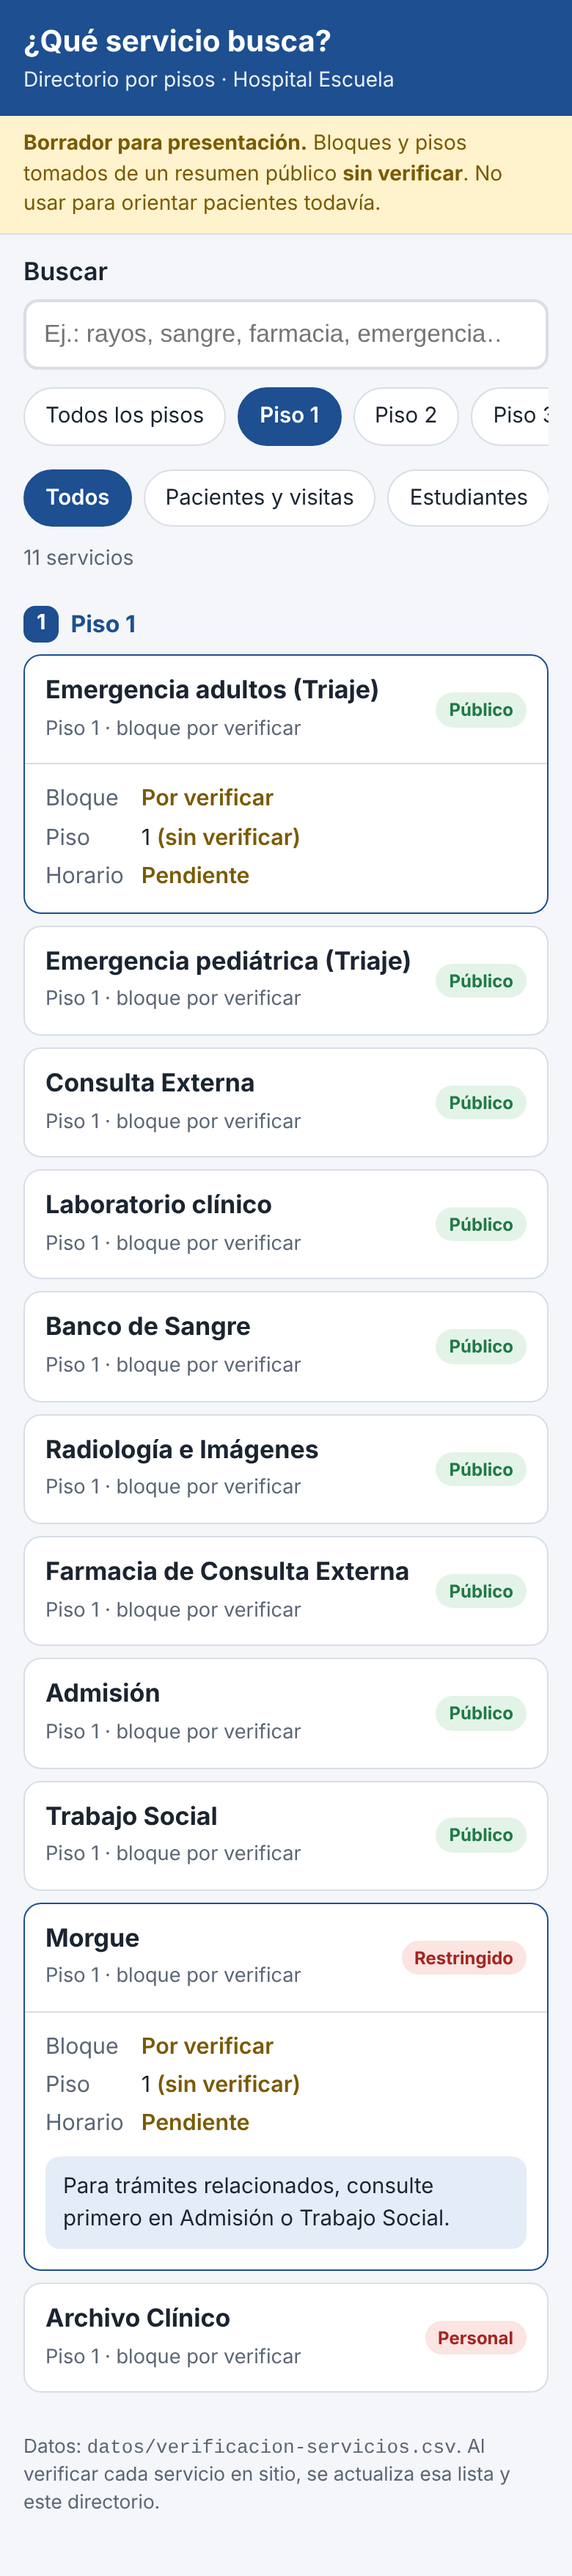
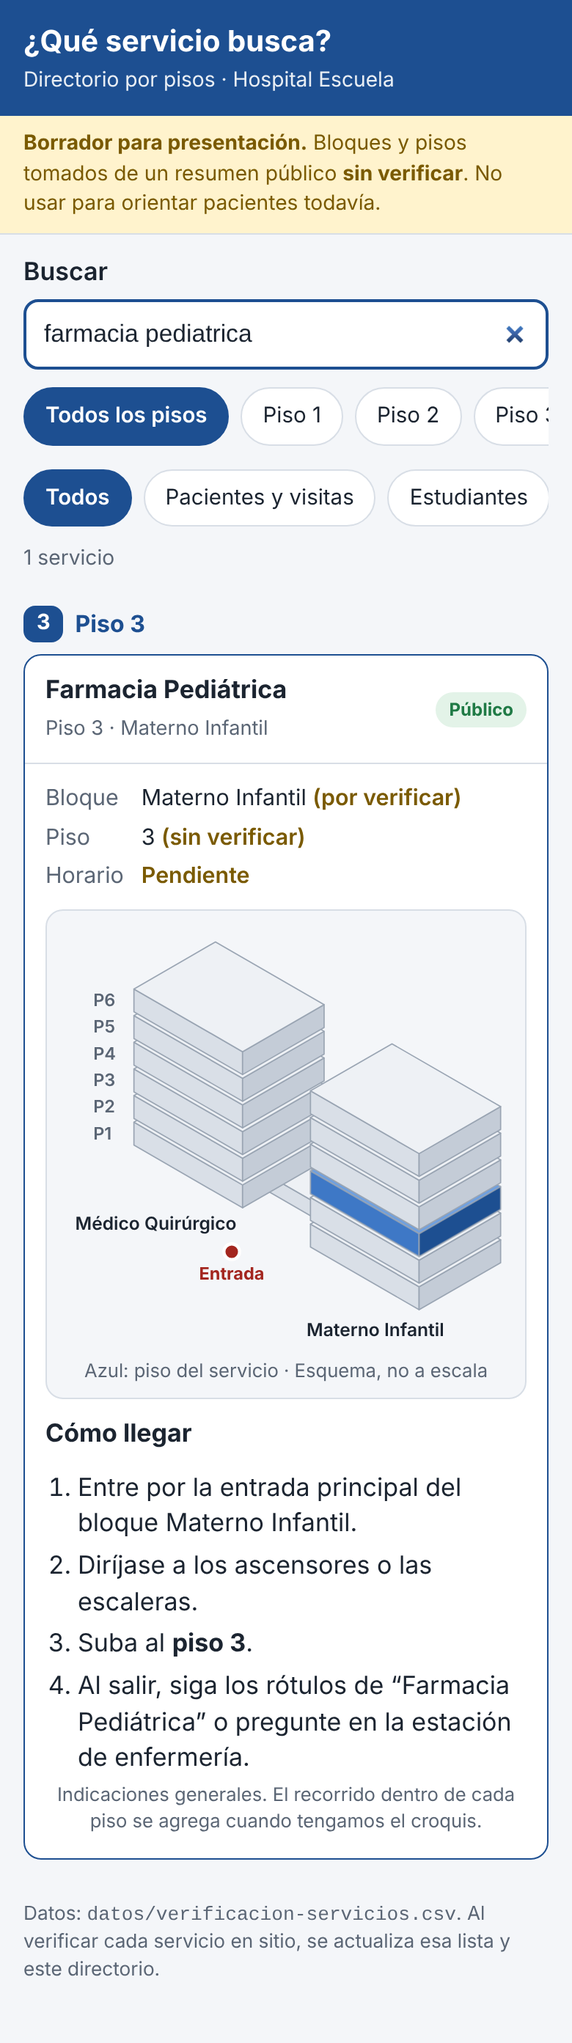
Directorio: vista 3D esquemática del edificio e indicaciones por piso
Claude-Session: https://claude.ai/code/session_015W3oK1W9ATUMM3YDaiew4J

Changed region(s): [[0.0, 0.0, 1.0, 0.9681], [0.0308, 0.7182, 0.0615, 0.7495]]

diff --git a/modelo 3d hospital escuela/directorio/index.html b/modelo 3d hospital escuela/directorio/index.html
@@ -10,6 +10,7 @@
     --accent: #1d4f91; --accent-soft: #e4ecf8; --ok: #1f7a45; --ok-soft: #e3f3e8;
     --warn: #7a5a00; --warn-soft: #fff3cd; --stop: #a3261f; --stop-soft: #fbe4e2;
     --info: #4b3a8f; --info-soft: #ece8fa;
+    --b-top: #eef1f5; --b-l: #d9dfe7; --b-r: #c4ccd7; --b-edge: #9aa5b3; --h-top: #6fa0e0; --h-l: #3e78c6; --h-r: #1d4f91; --d-top: #ffe9a8; --d-l: #f3d371; --d-r: #ddb948;
   }
   @media (prefers-color-scheme: dark) {
     :root:not([data-theme="light"]) {
@@ -17,6 +18,7 @@
       --accent: #86b4f0; --accent-soft: #1f2c3e; --ok: #6fcf97; --ok-soft: #173326;
       --warn: #f0cf6e; --warn-soft: #3a3115; --stop: #ff8a80; --stop-soft: #3d1c1a;
       --info: #b9a8ff; --info-soft: #2a2442;
+      --b-top: #2c3542; --b-l: #232b36; --b-r: #1c232c; --b-edge: #46505e; --h-top: #86b4f0; --h-l: #4f84cc; --h-r: #2f5f9f; --d-top: #6b5a24; --d-l: #574a1d; --d-r: #433915;
     }
   }
   :root[data-theme="dark"] {
@@ -24,6 +26,7 @@
     --accent: #86b4f0; --accent-soft: #1f2c3e; --ok: #6fcf97; --ok-soft: #173326;
     --warn: #f0cf6e; --warn-soft: #3a3115; --stop: #ff8a80; --stop-soft: #3d1c1a;
     --info: #b9a8ff; --info-soft: #2a2442;
+    --b-top: #2c3542; --b-l: #232b36; --b-r: #1c232c; --b-edge: #46505e; --h-top: #86b4f0; --h-l: #4f84cc; --h-r: #2f5f9f; --d-top: #6b5a24; --d-l: #574a1d; --d-r: #433915;
   }
   * { box-sizing: border-box; }
   body { margin: 0; background: var(--bg); color: var(--text); font: 17px/1.45 system-ui, -apple-system, "Segoe UI", Roboto, sans-serif; }
@@ -62,6 +65,23 @@
   .msg.info { background: var(--accent-soft); }
   .msg.warn { background: var(--warn-soft); color: var(--warn); }
   .vacio { color: var(--muted); padding: 20px 0; text-align: center; }
+  .vista3d { margin: 12px 0 4px; background: var(--bg); border: 1px solid var(--line); border-radius: 12px; padding: 8px; }
+  .vista3d svg { width: 100%; height: auto; display: block; max-width: 420px; margin: 0 auto; }
+  .f-top { fill: var(--b-top); } .f-l { fill: var(--b-l); } .f-r { fill: var(--b-r); }
+  .vista3d polygon { stroke: var(--b-edge); stroke-width: .8; stroke-linejoin: round; }
+  .hl .f-top { fill: var(--h-top); } .hl .f-l { fill: var(--h-l); } .hl .f-r { fill: var(--h-r); }
+  .dudoso .f-top { fill: var(--d-top); } .dudoso .f-l { fill: var(--d-l); } .dudoso .f-r { fill: var(--d-r); }
+  .dudoso polygon { stroke: var(--warn); stroke-dasharray: 3 2; stroke-width: 1.2; }
+  .hl { animation: sube .9s ease-out both; }
+  @keyframes sube { from { transform: translateY(-14px); opacity: .3; } }
+  @media (prefers-reduced-motion: reduce) { .hl { animation: none; } }
+  .vista3d text { font-size: 11px; fill: var(--muted); font-weight: 600; }
+  .vista3d text.tor { fill: var(--text); font-size: 11.5px; text-anchor: middle; }
+  .vista3d text.pin { fill: var(--stop); font-weight: 700; text-anchor: middle; }
+  .vista3d circle { fill: var(--stop); stroke: var(--surface); stroke-width: 2; }
+  .leyenda3d { font-size: .8rem; color: var(--muted); text-align: center; margin: 4px 0 0; }
+  ol.pasos { margin: 12px 0 0; padding-left: 22px; } ol.pasos li { margin: 4px 0; }
+  .pasos-tit { font-weight: 700; margin-top: 12px; display: block; }
   footer { color: var(--muted); font-size: .82rem; margin-top: 28px; }
 </style>
 </head>
@@ -143,6 +163,56 @@ function mensaje(s) {
 }
 const esc = (t) => t.replace(/[&<>"]/g, (c) => ({ '&':'&amp;','<':'&lt;','>':'&gt;','"':'&quot;' }[c]));
 
+
+/* ---------- Vista 3D esquemática (isométrica) ----------
+   Dos bloques de 6 pisos. NO es el edificio real a escala: solo muestra en qué bloque y piso está el servicio. */
+const PISOS = 6, ESC = 20, C30 = 0.866;
+const TORRES = [
+  { clave: 'Médico Quirúrgico', x: 0 },
+  { clave: 'Materno Infantil', x: 6.5 },
+];
+const iso = (x, y, z) => [(x - y) * C30 * ESC, (x + y) * 0.5 * ESC - z * ESC * 0.85];
+const pts = (arr) => arr.map((p) => iso(...p).map((v) => v.toFixed(1)).join(',')).join(' ');
+function caja(x0, y0, z0, w, d, h, clase) {
+  const x1 = x0 + w, y1 = y0 + d, z1 = z0 + h;
+  return `<g class="${clase || ''}">
+    <polygon class="f-l" points="${pts([[x0,y1,z0],[x1,y1,z0],[x1,y1,z1],[x0,y1,z1]])}"/>
+    <polygon class="f-r" points="${pts([[x1,y0,z0],[x1,y1,z0],[x1,y1,z1],[x1,y0,z1]])}"/>
+    <polygon class="f-top" points="${pts([[x0,y0,z1],[x1,y0,z1],[x1,y1,z1],[x0,y1,z1]])}"/></g>`;
+}
+function edificio(s) {
+  let svg = '';
+  for (const t of TORRES) {
+    for (let p = 1; p <= PISOS; p++) {
+      let clase = '';
+      if (s.piso === p) clase = s.bloque ? (s.bloque === t.clave ? 'hl' : '') : 'dudoso';
+      svg += caja(t.x, 0, p - 1, 4, 3, 0.86, clase);
+    }
+    const [lx, ly] = t.x === 0 ? [-38, 84] : [102, 152];
+    svg += `<text class="tor" x="${lx}" y="${ly}">${t.clave}</text>`;
+    if (t.x === 0) for (let p = 1; p <= PISOS; p++) {
+      const [px, py] = iso(0, 3, p - 0.55);
+      svg += `<text x="${px - 26}" y="${py + 4}">P${p}</text>`;
+    }
+  }
+  svg = caja(4, 1, 0, 2.5, 1, 0.6, '') + svg; // pasillo de conexión (detrás)
+  const [ex, ey] = iso(5.2, 4.6, 0);
+  svg += `<circle cx="${ex}" cy="${ey}" r="5"/><text class="pin" x="${ex}" y="${ey + 18}">Entrada</text>`;
+  return `<svg viewBox="-100 -112 290 275" role="img" aria-label="Esquema del edificio: ${s.piso ? 'piso ' + s.piso : 'piso por confirmar'}">${svg}</svg>`;
+}
+function pasos(s) {
+  if (s.acc === 'Restringido' || s.acc === 'Personal' || s.discreto) return '';
+  const destino = esc(s.n);
+  const bloque = s.bloque ? `del bloque ${esc(s.bloque)}` : 'del bloque que le indiquen en Información';
+  const lista = s.piso === 1
+    ? [`Entre por la entrada principal ${bloque}.`, `${destino} está en la planta baja (piso 1).`, `Siga los rótulos de “${destino}” o pregunte en Información.`]
+    : s.piso
+    ? [`Entre por la entrada principal ${bloque}.`, 'Diríjase a los ascensores o las escaleras.', `Suba al <strong>piso ${s.piso}</strong>.`, `Al salir, siga los rótulos de “${destino}” o pregunte en la estación de enfermería.`]
+    : ['Pregunte en Información: la ubicación de este servicio aún no está confirmada.'];
+  return `<span class="pasos-tit">Cómo llegar</span><ol class="pasos">${lista.map((l) => `<li>${l}</li>`).join('')}</ol>
+    <p class="leyenda3d">Indicaciones generales. El recorrido dentro de cada piso se agrega cuando tengamos el croquis.</p>`;
+}
+
 function pintar() {
   pintarFiltros();
   const q = norm($('#q').value.trim());
@@ -168,7 +238,9 @@ function pintar() {
       const bloque = s.bloque ? `${esc(s.bloque)} <span class="pv">(por verificar)</span>` : '<span class="pv">Por verificar</span>';
       d.innerHTML = `<summary><div><strong>${esc(s.n)}</strong><small>${s.piso ? 'Piso ' + s.piso : 'Piso por confirmar'} · ${s.bloque ? esc(s.bloque) : 'bloque por verificar'}</small></div><span class="chip ${s.acc}">${s.acc}</span></summary>
         <div class="cuerpo"><dl><dt>Bloque</dt><dd>${bloque}</dd><dt>Piso</dt><dd>${s.piso ?? '<span class="pv">Por confirmar</span>'} <span class="pv">(sin verificar)</span></dd><dt>Horario</dt><dd><span class="pv">Pendiente</span></dd></dl>
-        ${mensaje(s)}${s.nota ? `<div class="msg warn">${esc(s.nota)}</div>` : ''}</div>`;
+        <div class="vista3d">${edificio(s)}<p class="leyenda3d">${s.bloque ? 'Azul: piso del servicio' : 'Amarillo: piso del servicio (bloque por confirmar)'} · Esquema, no a escala</p></div>
+        ${pasos(s)}${mensaje(s)}${s.nota ? `<div class="msg warn">${esc(s.nota)}</div>` : ''}</div>`;
+      if (q && visibles.length <= 3 && s === visibles[0]) d.open = true;
       div.appendChild(d);
     }
     cont.appendChild(div);
